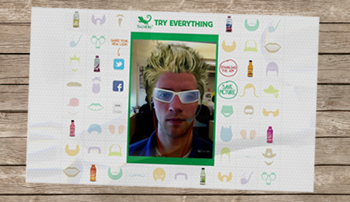
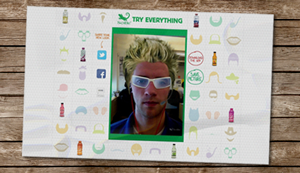
Added sweet floaty signs

diff --git a/js/epcb2dSpacies.js b/js/epcb2dSpacies.js
@@ -91,18 +91,18 @@ Spacies.prototype.createWorld = function(){
     this._wallLeft = m_world.CreateBody(wallBd);
     this._wallLeft.CreateFixture2(wall);
     // Right
-    wallBd.position.Set(53.5, 18);
+    wallBd.position.Set(73.5, 18);
     this._wallRight = m_world.CreateBody(wallBd);
     this._wallRight.CreateFixture2(wall);
     // Top
-    wallBd.position.Set(32, 45.5);
-    wall.SetAsBox(34, -5);
+    wallBd.position.Set(32, 48.5);
+    wall.SetAsBox(34, 10);
     this._wallTop = m_world.CreateBody(wallBd);
     this._wallTop.CreateFixture2(wall); 
     // Bottom
     wallBd.position.Set(32, -9.5);
     this._wallBottom = m_world.CreateBody(wallBd);
-    this._wallBottom.CreateFixture2(wall);    
+    this._wallBottom.CreateFixture2(wall); 
     return m_world;
 };
 
@@ -326,19 +326,6 @@ b2SpaceyDebugDraw.prototype.DrawSolidPolygon=function(vertices,numVertices,c, bo
     jQuery(sprite).hide();
   } else {
     jQuery(sprite).show();
-  }
-  
-  if(EPC.getBgOffset() > 0) {
-    jQuery("img[id*='cloud']").each(function() {
-      if(jQuery(this).css("top") > jQuery("canvas").css("height")) {
-        jQuery(this).hide();
-      } else {
-        jQuery(this).show()
-         .stop()
-         .css("position","absolute")
-         .css("top", EPC.getBgOffset()/10 + parseInt(jQuery(this).css("top")) + "px");
-      }
-    });
   }  
 }
 

diff --git a/js/epcSpacies.js b/js/epcSpacies.js
@@ -22,7 +22,7 @@ Spacies.prototype.createWorld = function() {
         body.h = h;
         var shape = new b2PolygonShape.AsBox(body.w, body.h);
         var fixtureDef = new b2FixtureDef();
-        fixtureDef.restitution = 0.0;
+        fixtureDef.restitution = .25;
         fixtureDef.density = 2.0;
         fixtureDef.friction = 0.9;
         fixtureDef.shape = shape;
@@ -115,9 +115,18 @@ Spacies.prototype.createWorld = function() {
 //                     11.1,6,
 //                     6,1.1, "sobe-sign");
 
-    var sobe = spawn(28, 29,11.1, 6, Math.random()/2);
+    var sobe = spawn(17, 12,9.43, 5.25, Math.random()/2);
     sobe.m_userData = "sobe-sign";
-                     
+
+    var orbit = spawn(40, 18,9.43, 5.25, Math.random()/2.1);
+    orbit.m_userData = "orbit-sign";
+
+    var eclipse = spawn(48, 25,9.43, 5.25, Math.random()/2.2);
+    eclipse.m_userData = "eclipse-sign";
+
+    var fivegum = spawn(48, 25,9.43, 5.25, Math.random()/2.3);
+    fivegum.m_userData = "fivegum-sign";
+
     return world;
 };
 

diff --git a/css/home.css b/css/home.css
@@ -100,9 +100,9 @@ height:100%;
   display: none;
 }
 
-#sobe-sign {
-  margin-left: -150px;
-  margin-top: -430px !important;  
+.floaty-sign {
+  margin-left: -126px;
+  margin-top: -420px !important;  
 }
 
 #music-stuff, #work-stuff {

diff --git a/index.php b/index.php
@@ -36,7 +36,10 @@
       <img id="linkedin" class="homesprite sprite" src="images/canvas/linkedin.png"></img>
       <img id="gplus" class="homesprite sprite" src="images/canvas/gplus.png"></img>
       <img id="satAnchor" class="worksprite sprite" src="images/canvas/down.png"></img>
-      <img id="sobe-sign" class="worksprite sprite" src="images/canvas/sobe-sign.png"></img>
+      <img id="sobe-sign" class="worksprite sprite floaty-sign" src="images/canvas/sobe-sign.png"></img>
+      <img id="orbit-sign" class="worksprite sprite floaty-sign" src="images/canvas/orbit-sign.png"></img>
+      <img id="eclipse-sign" class="worksprite sprite floaty-sign" src="images/canvas/eclipse-sign.png"></img>
+      <img id="fivegum-sign" class="worksprite sprite floaty-sign" src="images/canvas/5gum-sign.png"></img>
       <img id="sat" class="worksprite sprite" src="images/canvas/SatelliteOnly.png"></img>
       <div id="flash"></div>
     </div>
